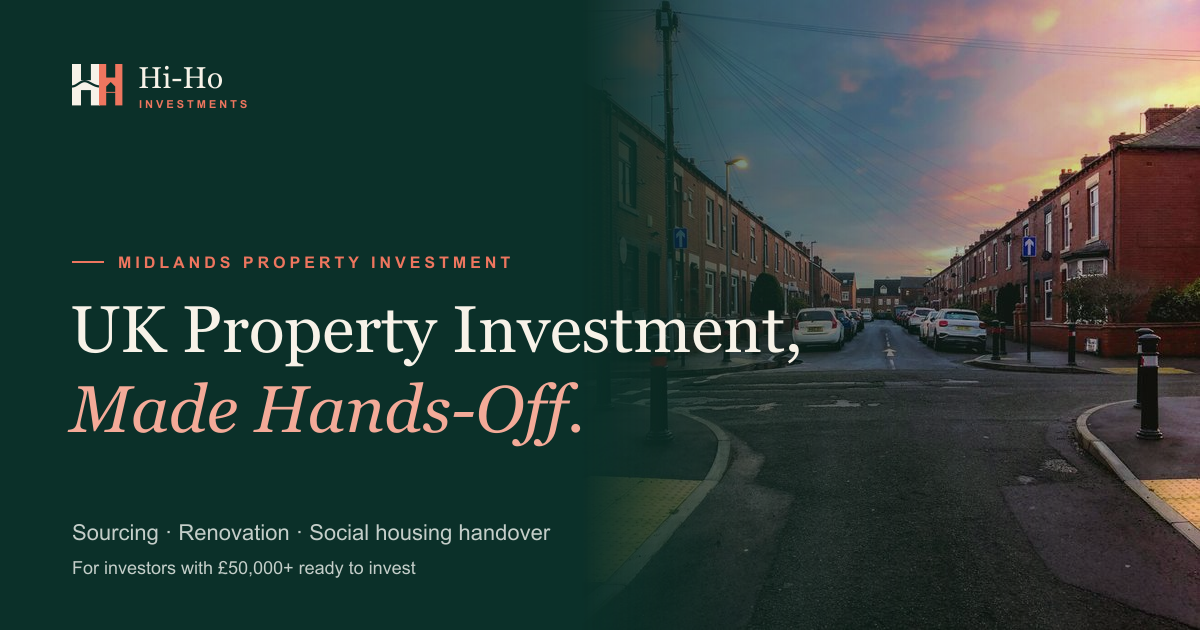
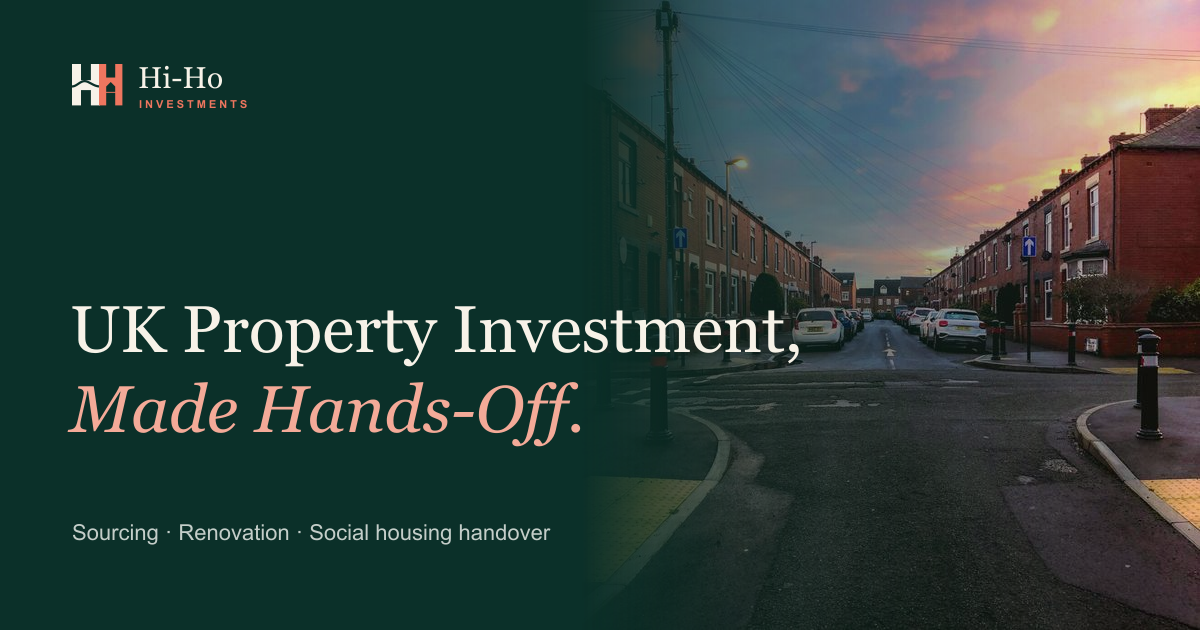
Shorten landing page to a one-pager per client feedback
- Page is now hero, enquiry form (Q1-4 unchanged) and the 4 steps
- Remove 'Midlands property investment' eyebrow and Midlands copy in meta/schema/OG
- Remove the £50k qualifier, the stats strip and 'See a completed project'
- Drop header nav and FAQ schema for sections no longer on the page
- Add /thank-you page (noindex); form redirects there and it fires the Pixel Lead

Changed region(s): [[0.0617, 0.8746, 0.3392, 0.9349], [0.0925, 0.3921, 0.4317, 0.4222]]

diff --git a/src/data/content.ts b/src/data/content.ts
@@ -17,23 +17,14 @@ export const brand = {
 export const seo = {
   title: 'UK Property Investment, Made Hands-Off | Hi-Ho Investments',
   description:
-    'Property sourcing, renovation management and social housing handover for UK investors with £50,000+ to invest. Terraced and semi-detached homes across the Midlands.',
+    'Property sourcing, renovation management and social housing handover for UK property investors. Tell us your goals and the Hi-Ho team will be in touch.',
 };
 
 export const hero = {
-  eyebrow: 'Midlands property investment',
   headline: 'UK Property Investment,',
   headlineAccent: 'Made Hands-Off.',
   body: 'From sourcing the right property to renovation management and social housing handover, Hi-Ho helps investors navigate their property investment journey.',
-  qualifier: 'For investors with £50,000 or more ready to invest.',
   primaryCta: 'Explore Investment Opportunities',
-  secondaryCta: 'See a completed project',
-  // Suggested stats. Edit freely.
-  stats: [
-    { value: '£50k+', label: 'Minimum to get started' },
-    { value: 'Midlands', label: 'Terraced and semi-detached homes' },
-    { value: '5 yr+', label: 'Social housing rental arrangement' },
-  ],
 };
 
 export type Option = { value: string; label: string; hint?: string };
